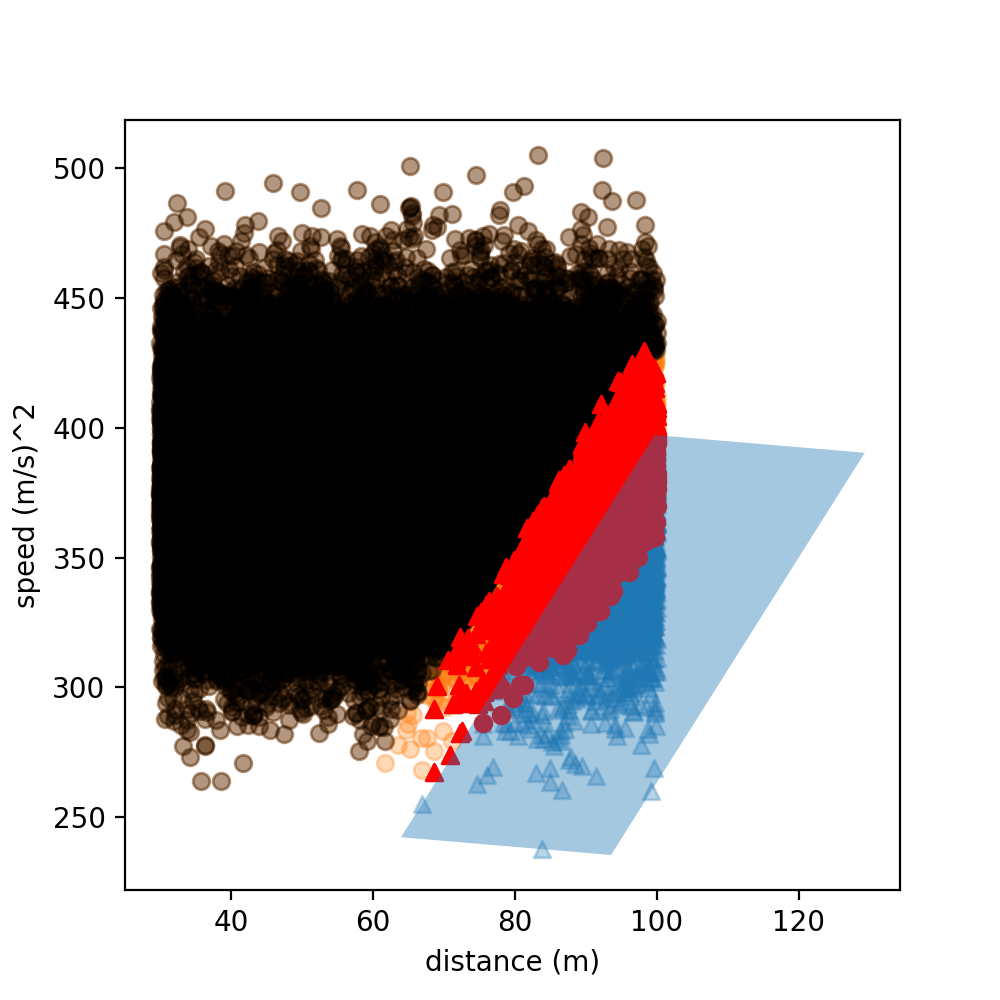
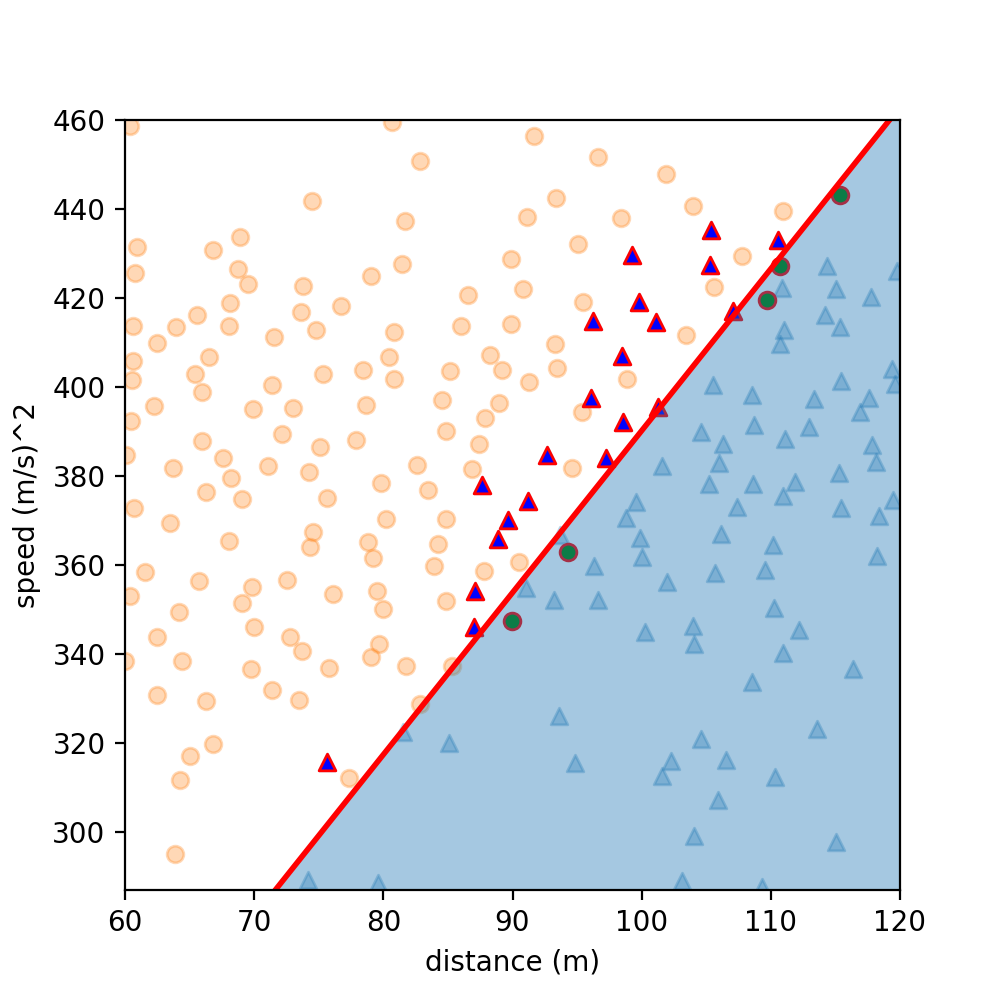
backup

diff --git a/aeb.py b/aeb.py
@@ -26,20 +26,30 @@ class AEB:
         # return braking force taking perfromance into account
         return self._p * self.braking_force
 
+    def measure_F(self):
+        # reset the brake performance to 100%
+        return self.F + random.gauss(mu=0.0, sigma=1/10)
+
     def reset_brake(self):
         # reset the brake performance to 100%
         self._p = 1 
 
     def next_step(self, dt=1):
-        mult_loss = min(1.00,random.gauss(mu=1.0, sigma=10**-3))
+        mult_loss = min(1.00+10**-4,random.gauss(mu=1.0, sigma=10**-3))
         self._p = self._p*mult_loss*dt 
+
+    def safety_label(self, l, vsqr):
+        # return safety label for a distance l in m and speed v in km/h
+        # 1 Kilometer/hour = 0.27777778 Meter/second
+        F = self.measure_F()
+        return 0.5*vsqr * self.M/F < l
 
     def genSamples(self, dt=1, m=1):
         # Assuming map.shape[0] = map.shape[1]
         l = np.random.uniform(low=self._l_min, high=self._l_max, size=m)
         vsqr = np.minimum(np.maximum(np.random.normal(self._mu_vsqr, self._sigma_vsqr, size=m), self._vsqr_min), self._vsqr_max)
         f = np.zeros(m)
-        self.F_list = np.zeros(m)
+        self.F_list = np.zeros(m) # Log true braking force (for reference)
         for i in range(m):
             self.next_step(dt)
             self.F_list[i] = self.F
@@ -59,11 +69,6 @@ class AEB:
         x = np.stack((l, vsqr), axis=1)
         return (x, f)
 
-    def safety_label(self, l, vsqr):
-        # return safety label for a distance l in m and speed v in km/h
-        # 1 Kilometer/hour = 0.27777778 Meter/second
-        return 0.5*vsqr * self.M/self.F < l
-
     def discard_samples(self, samples, label, theta):
         # Create a rotation matrix using the given theta angle
         R = np.array(((np.cos(theta), np.sin(theta)), (-np.sin(theta), np.cos(theta))))
@@ -81,36 +86,37 @@ class AEB:
 
         # Iterate over each dimension
         for i in range(len(min_coords)):
-            # Find the indices where the rotated_f_samples are lower/higher than the minimum coordinate
-            lower_indices = np.argwhere(np.logical_and(rotated_samples[i] < min_coords[i], label<1)).flatten()
-            upper_indices = np.argwhere(np.logical_and(rotated_samples[i] > max_coords[i], label<1)).flatten()
-            
-            # Add the lower_indices and upper_indices to the discard_indices list
-            discard_indices.extend(lower_indices)
-            discard_indices.extend(upper_indices)
+            if self._singleFacet:
+                indices = np.argwhere(np.logical_and(rotated_samples[0] < min_coords[0], label<1)).flatten()
+                discard_indices.extend(indices)
+            else:
+                # Find the indices where the rotated_f_samples are lower/higher than the minimum coordinate
+                lower_indices = np.argwhere(np.logical_and(rotated_samples[i] < min_coords[i], label<1)).flatten()
+                upper_indices = np.argwhere(np.logical_and(rotated_samples[i] > max_coords[i], label<1)).flatten()
+                
+                # Add the lower_indices and upper_indices to the discard_indices list
+                discard_indices.extend(lower_indices)
+                discard_indices.extend(upper_indices)
 
         # Return the list of discard indices
         return discard_indices
 
-    def generateMsampleModel(self, nr_samples, dt=1, reduce=True):
+    def generateMsampleModel(self, m, dt=1, reduce=True):
         # Get samples
-        (x,f) = self.genSamples(dt, m=nr_samples)
+        (x,f) = self.genSamples(dt, m)
 
-        # Add fixed rotation of the hyperrectangle
-        theta_degrees = 45 * 0.5*self.M/self.F
-        theta = -theta_degrees/180 * pi # Fixed rotation angle
+        # Add fixed rotation of the hyperrectangle based on a measurment of the braking force
+        theta = atan(-0.5*self.M/self.measure_F())
         R = np.array(((np.cos(theta), np.sin(theta)), (-np.sin(theta), np.cos(theta))))
-
+        
+        # Compute samples that are irrelevant for the MIP
         discard_indices = self.discard_samples(x, f, theta)
-        
-        m = len(f)
-        
+
         # Number of facets
-        Nf_hf = len(x[0])
-        Nf = 2*Nf_hf
-        
-        # a = np.identity(Nf_hf) # aj = a[j]
-        # a = np.block([[a], [-a]])
+        if self._singleFacet:
+            Nf = 1
+        else:
+            Nf = len(x[0])*2
 
         # Assuming Mj = -mj = self.map_width (upperbound/lowerbound for x[i,j])
         M = max(self._l_max, self._vsqr_max)
@@ -128,23 +134,36 @@ class AEB:
             if i in discard_indices:
                 continue
             if f[i]:
-                for j in range(Nf):
-                    model.add_constr(np.matmul(a[j], x[i]) + b[j] - s[i,j] <= 0)
-                    model.add_constr(xsum(s[i, j] for j in range(Nf)) - v[i] * Nf * M <= 0)
+                if self._singleFacet:
+                    model.add_constr(np.matmul(a[2], x[i]) + b[0] - s[i,0] <= 0)
+                    model.add_constr(s[i, 0] - v[i] * M <= 0)
+                else:
+                    for j in range(Nf):
+                        model.add_constr(np.matmul(a[j], x[i]) + b[j] - s[i,j] <= 0)
+                        model.add_constr(xsum(s[i, j] for j in range(Nf)) - v[i] * Nf * M <= 0)
             else:# constraints for i in I0
-                for j in range(Nf):
-                    model.add_constr(np.matmul(a[j], x[i]) + b[j] - M*(1 - z[i,j]) <= 0)
-                    model.add_constr(eps + (-M - eps)*z[i,j] - s[i,j] - np.matmul(a[j], x[i])- b[j]<= 0)
-                    model.add_constr(xsum(z[i, j] for j in range(Nf)) + 1 - Nf <= 0)
-                    model.add_constr(xsum(s[i, j] for j in range(Nf)) - v[i] * Nf * M <= 0)
-        width = {j: model.add_var(var_type=CONTINUOUS, lb = 0, ub = 2*M, name="width_%d" % j) for j in range(Nf_hf)}
-        for j in range(Nf_hf):
-            model.add_constr(-b[j] - b[j + Nf_hf] == width[j])
-        
-        volume_weight = 10**-ceil(log(m)-8) # for m = 20000
-        volume_weight = 0.01 
-        model.objective = minimize(xsum(v[i] for i in range(m)) + volume_weight * xsum(width[j] for j in range(Nf_hf)))
-        #model.objective = minimize(xsum(v[i] for i in range(m)))
+                if self._singleFacet:
+                    model.add_constr(np.matmul(a[2], x[i]) + b[0] - M*(1 - z[i,0]) <= 0)
+                    model.add_constr(eps + (-M - eps)*z[i,0] - s[i,0] - np.matmul(a[2], x[i])- b[0]<= 0)
+                    model.add_constr(z[i, 0] <= 0)
+                    model.add_constr(s[i, 0]  - v[i] * M <= 0)
+                else:
+                    for j in range(Nf):
+                        model.add_constr(np.matmul(a[j], x[i]) + b[j] - M*(1 - z[i,j]) <= 0)
+                        model.add_constr(eps + (-M - eps)*z[i,j] - s[i,j] - np.matmul(a[j], x[i])- b[j]<= 0)
+                        model.add_constr(xsum(z[i, j] for j in range(Nf)) + 1 - Nf <= 0)
+                        model.add_constr(xsum(s[i, j] for j in range(Nf)) - v[i] * Nf * M <= 0)
+        if self._singleFacet:
+            model.objective = minimize(xsum(v[i] for i in range(m)))
+        else:
+            Nf_hf = floor(Nf/2)
+            width = {j: model.add_var(var_type=CONTINUOUS, lb = 0, ub = 2*M, name="width_%d" % j) for j in range(Nf_hf)}
+            for j in range(Nf_hf):
+                model.add_constr(-b[j] - b[j + Nf_hf] == width[j])
+            volume_weight = 10**-ceil(log(m)-8) # for m = 20000
+            volume_weight = 0.01 
+            model.objective = minimize(xsum(v[i] for i in range(m)) + volume_weight * xsum(width[j] for j in range(Nf_hf)))
+            model.width = width
                                    
         print("Discarded %d samples." % (len(discard_indices)))
         print("Discarded %f %% of samples." % (len(discard_indices)/len(x)))
@@ -158,7 +177,6 @@ class AEB:
         model.b = b
         model.z = z
         model.s = s
-        model.width = width
         model.theta = theta
 
         return model

diff --git a/prediction_script.py b/prediction_script.py
@@ -76,9 +76,9 @@ else:
 print("Estimated to need %d samples"%sample_count)
 model = simulator.generateMsampleModel(sample_count)
 
-if False: 
+if True: 
     status = model.optimize(max_nodes = 2000)
-    model.write('model.lp')
+    model.write('model_archive/model.lp')
     if status == OptimizationStatus.OPTIMAL:
         print('optimal solution cost {} found'.format(model.objective_value))
     elif status == OptimizationStatus.FEASIBLE:
@@ -87,30 +87,33 @@ if False:
         print('no feasible solution found, lower bound is: {} '.format(model.objective_bound))
         plt.show(block=True)
 
+violation_points = []
+for i in range(len(model.f)):
+    if not model.v[i].x:
+        continue
+    else:
+        violation_points.append(model.x[i])
+
 prune_dist = 3
 prnd_model = prune(model, prune_dist)
+
+prnd_violation_points = []
+for p in violation_points:
+    if p in prnd_model.x:
+        prnd_violation_points.append(p)
+        
 m = len(prnd_model.f)
-plot_results = False
+plot_results = True
 if plot_results:
     fig0 = plt.figure(figsize=(5,5))
     t_samples = prnd_model.x[np.argwhere(prnd_model.f)[:, 0]]
     f_samples = prnd_model.x[np.argwhere(prnd_model.f<1)[:, 0]]
     plt.scatter(t_samples[:,0], t_samples[:,1], marker='^', alpha=0.3) # Plot samples with f=1
     plt.scatter(f_samples[:,0], f_samples[:,1], marker='o', alpha=0.3) # Plot samples with f=0
-    
-    t_d_samples = prnd_model.x[np.argwhere(model.discarded_t)[:, 0]]
-    f_d_samples = prnd_model.x[np.argwhere(model.discarded_f)[:, 0]]
-    plt.scatter(t_d_samples[:,0], t_d_samples[:,1], marker='^', alpha=0.3, c='k') # Plot discarded samples
-    plt.scatter(f_d_samples[:,0], f_d_samples[:,1], marker='o', alpha=0.3, c='k')
 
     plt.xlabel('distance (m)')
     plt.ylabel('speed (m/s)^2')
-
-    print("Discarded %f %% of true samples." % (len(t_d_samples)/len(t_samples)))
-    print("Discarded %f %% of false samples." % (len(f_d_samples)/len(f_samples)))
         
-    print("Discarded %d %% of %d samples." % (sum(model.discarded_t) + sum(model.discarded_f), sample_count))
-
     simulator.next_step() # t = m+1
 
     ## Find lower left corner
@@ -120,36 +123,39 @@ if plot_results:
     #       p1 ----- p2
     #
     theta  = model.theta
-    p1 = [model.b[2].x * cos(theta)-model.b[3].x*sin(theta), model.b[2].x * sin(theta)+model.b[3].x*cos(theta)]
-    p2 = [-model.b[0].x * cos(theta)-model.b[3].x*sin(theta), -model.b[0].x * sin(theta)+model.b[3].x*cos(theta)]
-    p3 = [-model.b[0].x * cos(theta)+model.b[1].x*sin(theta), -model.b[0].x * sin(theta)-model.b[1].x*cos(theta)]
-    p4 = [model.b[2].x * cos(theta)+model.b[1].x*sin(theta), model.b[2].x * sin(theta)-model.b[1].x*cos(theta)]
+    if simulator._singleFacet:
+        b0 = -100
+        b1 = -600
+        b2 = model.b[0].x
+        b3 = 100
+    else:
+        b0 = model.b[0].x
+        b1 = model.b[1].x
+        b2 = model.b[2].x
+        b3 = model.b[3].x
+
+    p1 = [ b2 * cos(theta)-b3*sin(theta),  b2 * sin(theta)+b3*cos(theta)]
+    p2 = [-b0 * cos(theta)-b3*sin(theta), -b0 * sin(theta)+b3*cos(theta)]
+    p3 = [-b0 * cos(theta)+b1*sin(theta), -b0 * sin(theta)-b1*cos(theta)]
+    p4 = [ b2 * cos(theta)+b1*sin(theta),  b2 * sin(theta)-b1*cos(theta)]
 
     polygon = Polygon([p1, p2, p3, p4], alpha = 0.4)
-    plt.gca().add_patch(polygon)
-
-    max_val = -inf
-    Nf = 2*len(prnd_model.x[0])
-    boundary_points = []
-    violation_points = []
+    ax = plt.gca()
+    ax.add_patch(polygon)
+    ax.set_xlim([simulator._l_min, simulator._l_max])
+    ax.set_ylim([floor(np.min(prnd_model.x[:,1])), ceil(np.max(prnd_model.x[:,1]))])
+      
+    # Draw extended Facet p1--p4
+    ax.axline(p1, p4, lw=2, color='r')
     for i in range(m):
-        if prnd_model.f[i]: # constraints for i in I1
-            if model.v[i].x:
-                violation_points.append(prnd_model.x[i])
-                plt.scatter(prnd_model.x[i,0], prnd_model.x[i,1], c='r', marker='^')
-                continue
-            for j in range(Nf):
-                val = np.matmul(model.a[j], prnd_model.x[i]) + model.b[j].x
-                if val > -0.1:
-                    max_val = max(max_val, val)
-                    boundary_points.append(prnd_model.x[i])
-        elif model.v[i].x:
-            plt.scatter(prnd_model.x[i,0], prnd_model.x[i,1], c='r', marker='o')
+        if any([np.all(prnd_model.x[i]==elem) for elem in prnd_violation_points]):
+            if prnd_model.f[i]:
+                plt.scatter(prnd_model.x[i,0], prnd_model.x[i,1], c='b', marker='^', edgecolors = 'red')
+            else:
+                plt.scatter(prnd_model.x[i,0], prnd_model.x[i,1], c='g', marker='o', edgecolors = 'red')
 
 # Figure 1 
 # The evolution of the samples over 6 time steps
-
-
 gradient = 0.5*simulator.M/prnd_model.F_list
 assert all((prnd_model.x[:,1] * gradient < prnd_model.x[:,0]) == (prnd_model.f > 0))
 
@@ -163,7 +169,6 @@ for index in range(1, 7):
     ax.set_title('(t=%d/6 T)'%index)
     plt.xlabel('distance (m)')
     plt.ylabel('speed (m/s)^2')
-
 
     ## Plot previous true oracle line
     p0 = 0
@@ -194,7 +199,6 @@ for index in range(1, 7):
     ax.set_ylim([floor(np.min(prnd_model.x[:,1])), ceil(np.max(prnd_model.x[:,1]))])
 
 plt.subplots_adjust(hspace=0.3)
-plt.show()
 
 # Figure 2 
 # # Prune lists
@@ -209,15 +213,18 @@ plt.show()
 
 ## Extract discarded samples
 fig2 = plt.figure(figsize=(5,5))
+
 # Plot all samples
 t_samples = prnd_model.x[np.argwhere(prnd_model.f>0)[:,0],:]
 f_samples = prnd_model.x[np.argwhere(prnd_model.f<1)[:,0],:]
 plt.scatter(t_samples[:,0], t_samples[:,1], marker='^', alpha=0.1, c='b') # Plot samples with f=1
 plt.scatter(f_samples[:,0], f_samples[:,1], marker='o', alpha=0.1, c='g') # Plot samples with f=0
 
+# Highlight discarded samples
 discarded_samples = prnd_model.x[model.discard_indices]
 plt.scatter(discarded_samples[:,0], discarded_samples[:,1], marker='o', alpha=0.8, c='b', edgecolors = 'red') # Plot discarded samples
-
+plt.xlabel('distance (m)')
+plt.ylabel('speed (m/s)^2')
 
 # del(model)
 # filepath = 'session.pkl'
